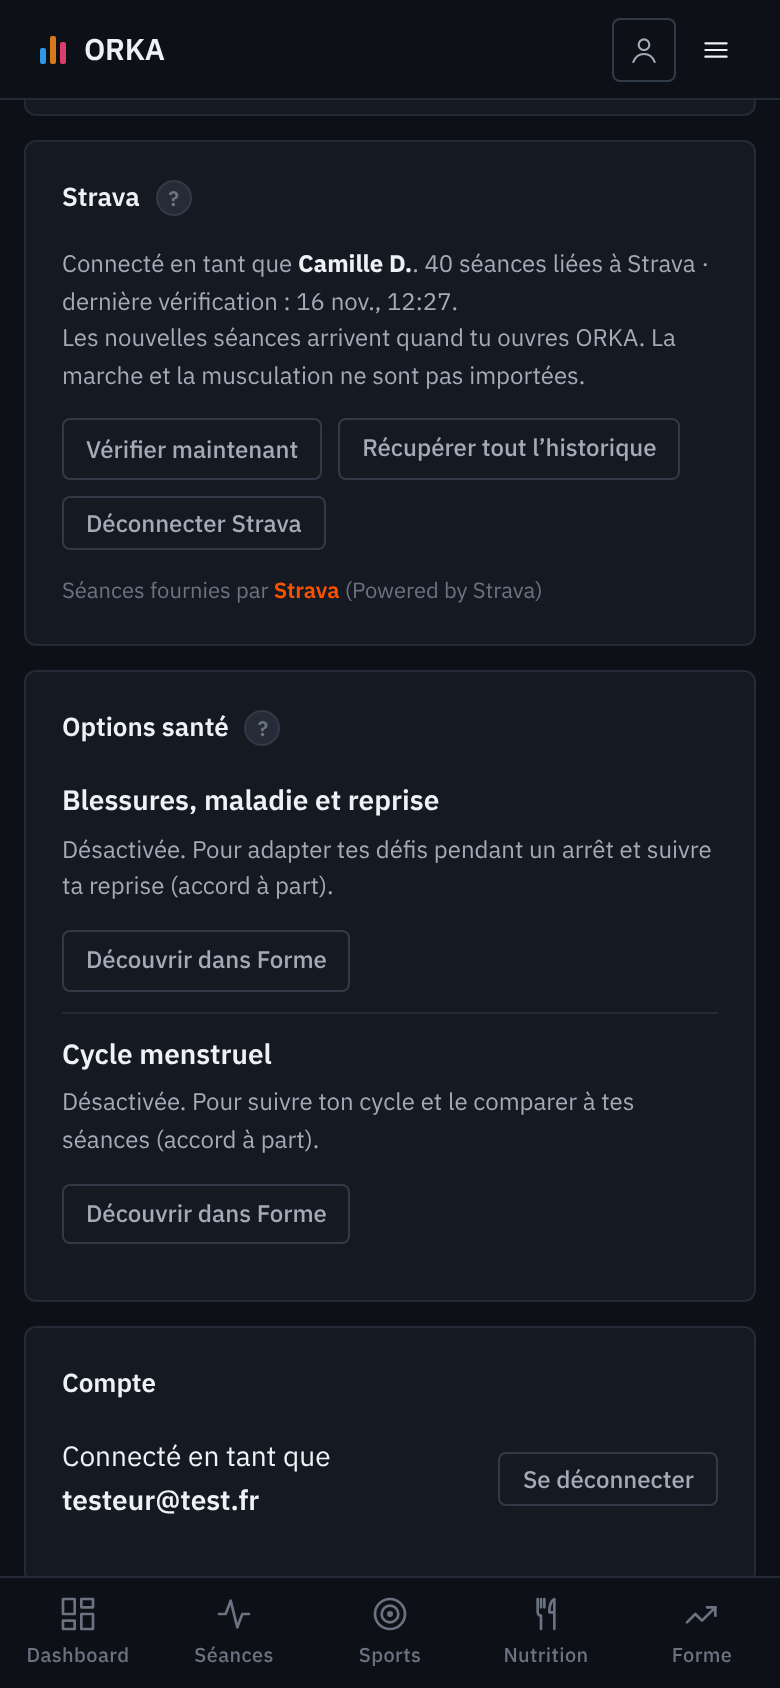
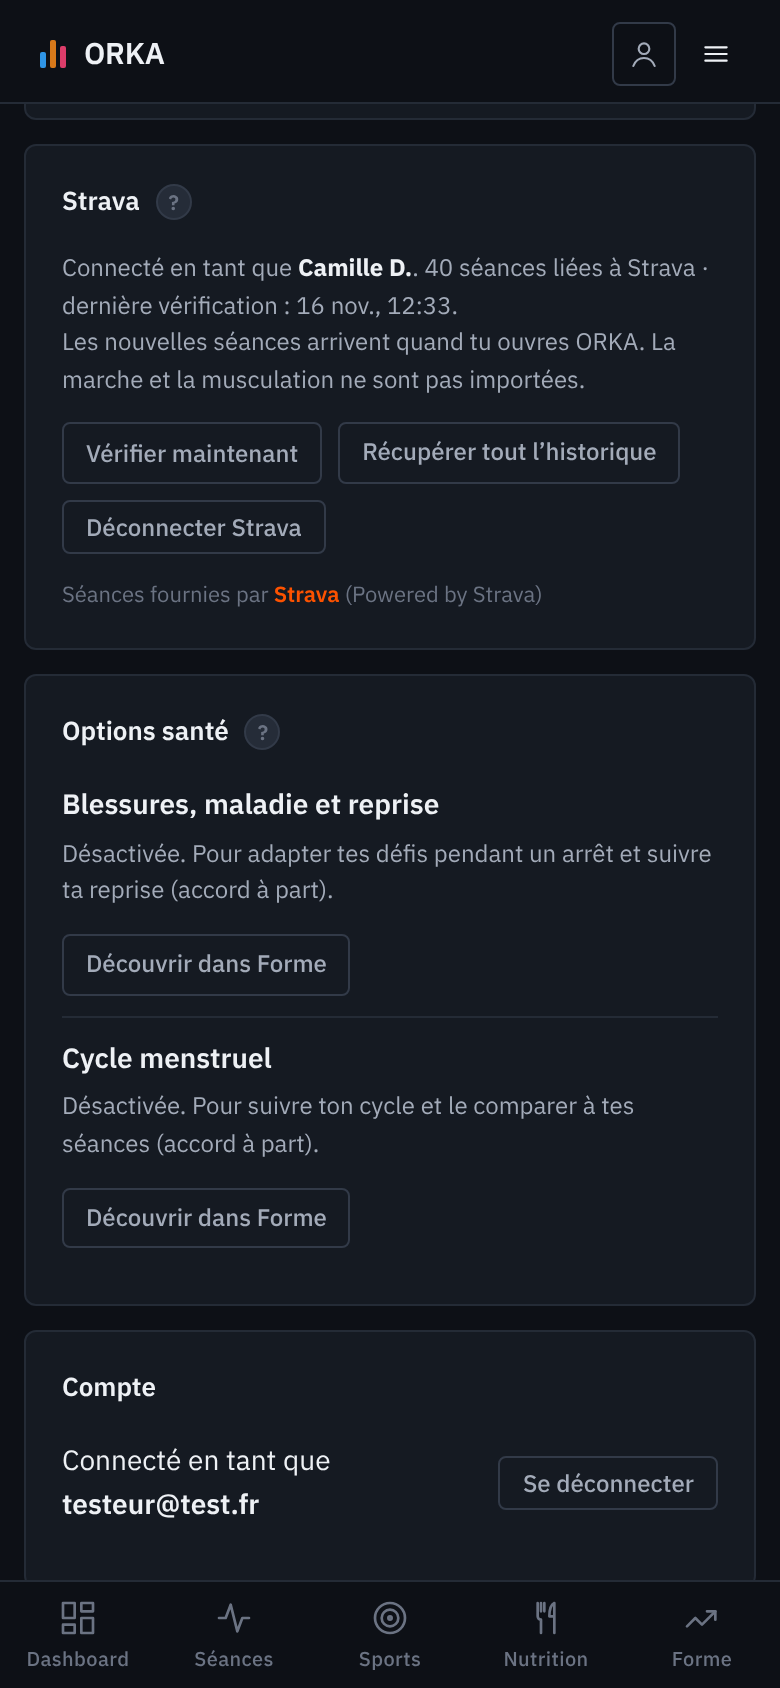
Dashboard : carte « Ta séance et ta nutrition » ; dossier Strava : 1 000 sportifs, abonnement confirmé, captures refaites
Claude-Session: https://claude.ai/code/session_01Ft3tZTwKn67cwzmRJRvsD8

diff --git a/index.html b/index.html
@@ -232,10 +232,10 @@
 
   <!-- Cartes du Dashboard : une colonne sur téléphone ; deux colonnes sur grand écran (layoutDash) -->
   <div id="dashGrid">
-  <!-- ── Ce que Strava ne te montre pas (constat nutrition × séances) ── -->
+  <!-- ── Ta séance et ta nutrition (constat nutrition × séances) ── -->
   <div class="card" style="margin-bottom:12px" id="insightCard">
     <div class="card__title" style="display:flex;justify-content:space-between;align-items:center;gap:8px;flex-wrap:wrap">
-      <span style="display:flex;align-items:center;gap:8px">Ce que Strava ne te montre pas <span class="tip-icon" data-tip="Ta dernière séance, avec ce que tu as mangé et bu la veille, le jour même et pendant l'effort. Des faits sur tes données, pas un conseil. Le lien entre tes repas et tes performances est détaillé dans Forme.">?</span></span>
+      <span style="display:flex;align-items:center;gap:8px">Ta séance et ta nutrition <span class="tip-icon" data-tip="Ta dernière séance, avec ce que tu as mangé et bu la veille, le jour même et pendant l'effort. Des faits sur tes données, pas un conseil. Le lien entre tes repas et tes performances est détaillé dans Forme.">?</span></span>
       <a href="forme.html" style="font-size:12px;font-weight:500;color:var(--accent)">Détail dans Forme</a>
     </div>
     <div id="insightBody"></div>
@@ -503,7 +503,7 @@ function renderGearAlert() {
   }).join('');
 }
 
-// ── Ce que Strava ne te montre pas : ta dernière séance avec ce que tu as mangé
+// ── Ta séance et ta nutrition : ta dernière séance avec ce que tu as mangé
 // et bu autour, puis tes glucides les jours d'entraînement et de repos.
 // Des faits sur tes données, jamais un conseil.
 // Repas + ravitaillements du jour, eau notée + boissons des ravitaillements (TS.dayIntake)

diff --git a/FEUILLE-DE-ROUTE.md b/FEUILLE-DE-ROUTE.md
@@ -60,7 +60,7 @@ Les cases cochées passent dans « Fait » en bas de page.
 
 - [ ] 🤖🧑 **Demande de validation Strava** (pour dépasser 10 utilisateurs, gratuite, délai non garanti), en 3 étapes :
   1. 🧑 Télécharger les **logos officiels Strava** (developers.strava.com → Guidelines → « Download all assets »), les déposer dans un dossier `strava/` du dépôt GitHub (« Add files via upload ») et prévenir Claude
-  2. 🤖 Claude remplace le bouton « Connecter avec Strava » et la mention « Powered by Strava » par les logos officiels. **Texte de la demande et captures d'écran prêts** (dossier `tools/strava-dossier/`, 16/11/2026) : il manque le **nouveau nom**, le **logo**, les logos Strava, et vérifier si Strava demande un **abonnement payant** aux développeurs depuis juin 2026 (à décider par Nathan) ; puis Claude refait les captures
+  2. 🤖 Claude remplace le bouton « Connecter avec Strava » et la mention « Powered by Strava » par les logos officiels. **Texte de la demande et captures d'écran prêts** (dossier `tools/strava-dossier/`, 16/11/2026) : il manque le **nouveau nom**, le **logo**, les logos Strava (abonnement Strava de Nathan : OK ; demande : 1 000 sportifs) ; puis Claude refait les captures
   3. 🧑 Envoyer la demande depuis strava.com/settings/api
 - [ ] 🤖 *Plus tard* : séances en temps réel avec les alertes Strava (« webhooks »), au lieu d'attendre l'ouverture de l'appli. Demande que le serveur puisse écrire dans Firestore
 - [ ] 🧑 Répondre aux messages reçus sur tri.season.tracker@gmail.com via la page Aide (et noter ici les problèmes à corriger)
@@ -88,7 +88,7 @@ Les cases cochées passent dans « Fait » en bas de page.
 ## Quand l'appli devient payante
 
 - [ ] 🧑 **Prix conseillés** (rapport du 18/10, à confirmer avec les testeurs) :
-  - **Sportifs** : **gratuit** (séances, Strava, Dashboard, sports, compétitions, records, défis et badges) + **« Performance » 2,99 €/mois ou 24,99 €/an** (Nutrition, Forme, carte « Ce que Strava ne te montre pas »). Plus tard, quand l'IA existera : « Performance + IA » autour de 4,99 €/mois
+  - **Sportifs** : **gratuit** (séances, Strava, Dashboard, sports, compétitions, records, défis et badges) + **« Performance » 2,99 €/mois ou 24,99 €/an** (Nutrition, Forme, carte « Ta séance et ta nutrition »). Plus tard, quand l'IA existera : « Performance + IA » autour de 4,99 €/mois
   - **Pros** : **« Pro » 12 €/mois** (10 clients inclus, +1 € par client en plus) et **« Pro + IA » 24 €/mois** (10 clients inclus, +0,50 € par client en plus)
   - Simulateur pour tester d'autres prix : claude.ai/artifact/YbZgjx1DvaoPJkrxahaUzM · rapport : claude.ai/artifact/Cwp3rux55rdrj5FCVZSZTs
 - [ ] 🧑 Avant de fixer les prix : poser 4 questions de prix aux testeurs (trop cher / cher / bon marché / trop bon marché), et montrer l'idée de l'espace pro à 3 ou 4 coachs ou nutritionnistes
@@ -135,6 +135,7 @@ Les cases cochées passent dans « Fait » en bas de page.
 
 | Date | PR | Quoi |
 |---|---|---|
+| 16/11/2026 | #91 | Dashboard : la carte « Ce que Strava ne te montre pas » s’appelle maintenant **« Ta séance et ta nutrition »** (avant la demande à Strava, pour ne pas froisser l’examinateur). Dossier Strava : abonnement Strava de Nathan confirmé, demande portée à **1 000 sportifs** pour ne pas avoir à la refaire |
 | 16/11/2026 | #91 | **Dossier pour Strava** (plus de 10 comptes connectés) préparé dans `tools/strava-dossier/` : texte de la demande en anglais avec sa traduction, 7 captures d'écran de tous les endroits où l'appli montre des données Strava, mode d'emploi et liste de ce qui manque (nom, logo, logos officiels Strava, abonnement) |
 | 16/11/2026 | #91 | Connexion avec Google : message clair quand Google refuse (site pas encore autorisé dans Firebase, fenêtre bloquée) au lieu d’un code d’erreur ; cause trouvée : l’adresse du site n’est pas dans les domaines autorisés de Firebase (à ajouter par Nathan, voir « Faire le point… Firebase ») |
 | 16/11/2026 | #90 | Questionnaire de bienvenue refait depuis Profil : « Aller au Dashboard » ouvre maintenant vraiment le Dashboard (avant, la fenêtre se fermait et on restait sur Profil) |

diff --git a/tools/strava-dossier/README.md b/tools/strava-dossier/README.md
@@ -16,7 +16,6 @@ Dans ce dossier :
 | **Le nouveau nom** | Nathan | Strava regarde que le nom de l'appli (réglé sur strava.com/settings/api) soit le même partout |
 | **Le logo** de l'appli | Nathan | Il s'affiche sur la page Strava « Autoriser … ? » et dans la demande |
 | **Les logos officiels Strava** : bouton « Connect with Strava » et mention « Powered by Strava » | Nathan les dépose dans un dossier `strava/` du dépôt (« Add files via upload ») | Strava demande ses images officielles. Aujourd'hui l'appli utilise un bouton maison : Claude le remplacera (Profil et questionnaire de bienvenue), puis refera les captures |
-| **L'abonnement Strava** | Nathan vérifie | Depuis juin 2026, Strava demande aux développeurs d'avoir un abonnement Strava payant pour garder l'accès à l'API (à vérifier sur la page de ton appli Strava : si un message te le demande, c'est payant, à décider par toi) |
 | Le nombre de comptes connectés au moment d'envoyer | Claude | Il le compte en lecture seule, comme pour le rapport du lundi |
 
 ## Pour envoyer (quand tout est prêt)
@@ -38,9 +37,11 @@ Dans ce dossier :
   e-mail ne sont pas lues : seulement le formulaire.
 - **En attendant**, les testeurs au-delà de 10 peuvent importer leur **archive Strava**
   ou les fichiers de leur montre (page Séances → « Importer des séances »).
-- **Point d'attention** : la carte du Dashboard s'appelle « Ce que Strava ne te montre
-  pas ». Ce n'est pas interdit, mais un examinateur Strava pourrait mal le prendre.
-  On peut la renommer avant l'envoi (par exemple « Ta séance et ta nutrition ») : à décider.
+- **Abonnement Strava** : depuis juin 2026, Strava demande aux développeurs d'avoir un
+  abonnement Strava. Nathan en a un (16 novembre 2026) : à garder tant que l'appli utilise Strava.
+- La carte du Dashboard « Ce que Strava ne te montre pas » a été renommée « Ta séance et ta
+  nutrition » avant la demande, pour ne pas froisser l'examinateur.
+- Nombre demandé : **1 000 sportifs**, pour ne pas avoir à refaire de demande à chaque étape.
 - La future idée « Partage en story » ne devra pas montrer de données venues de
   Strava à d'autres personnes sans vérifier les règles Strava (déjà noté dans la
   feuille de route).

diff --git a/tools/strava-dossier/demande-strava.md b/tools/strava-dossier/demande-strava.md
@@ -19,7 +19,7 @@ Avant d'envoyer, **remplace** :
 **Website:** https://nathansimon-gif.github.io/TriSeason/
 **Privacy policy:** https://nathansimon-gif.github.io/TriSeason/confidentialite.html
 **Contact:** tri.season.tracker@gmail.com
-**Requested capacity:** 100 connected athletes
+**Requested capacity:** 1,000 connected athletes
 
 **What the app does**
 
@@ -64,12 +64,15 @@ mouth (friends, club members), and most of them record their sessions with a
 Garmin, Coros, Polar or Apple Watch that already syncs to Strava: connecting
 Strava is the simplest way for them to get their sessions into the app.
 Without it, they have to export and import files by hand. We would like
-capacity for 100 athletes to cover the next months of testing.
+capacity for 1,000 athletes, so that we can keep welcoming new users over the
+coming year (club members, then a public launch) without asking again at each
+step. The app already stays far below the rate limits (see above), and we will
+keep the same usage as it grows.
 
 **Screenshots** (attached): every place where Strava data or the Strava
 connection appears in the app.
 
-1. Dashboard: weekly summary and the latest session (from Strava) next to the nutrition of that day
+1. Dashboard: weekly summary and the card "Your session and your nutrition" (latest session next to the nutrition of that day)
 2. Sessions list: each activity from Strava with its "View on Strava" link
 3. Session details
 4. Profile → Settings: Strava connected, last sync, "Disconnect Strava", "Powered by Strava"
@@ -100,5 +103,6 @@ confidentialité et accord explicite (RGPD).
 
 **Pourquoi plus de place** : [NB_USERS] comptes dont [NB_CONNECTED] avec Strava,
 proche de la limite de 10 ; de nouveaux testeurs arrivent par le bouche-à-oreille,
-et la plupart ont une montre qui envoie déjà tout à Strava. Demande : 100 sportifs
-pour les prochains mois de test.
+et la plupart ont une montre qui envoie déjà tout à Strava. Demande : 1 000 sportifs,
+pour accueillir les nouveaux pendant l'année qui vient (clubs, puis ouverture au public)
+sans refaire de demande ; l'appli reste très en dessous des limites d'appels.
